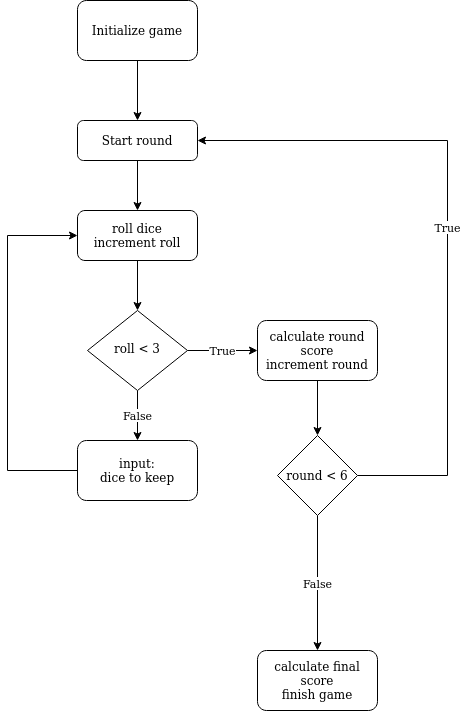
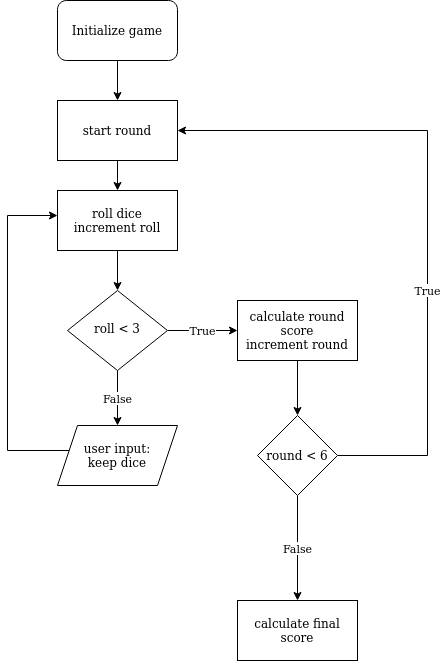
somewhat corrected notation of flowchart

diff --git a/doc/yatzy/pseudocode.md b/doc/yatzy/pseudocode.md
@@ -1,17 +1,18 @@
-INITIATE game
+START game
 
-IF times rolled < 3 THEN
+WHILE round < 6
+    WHILE times rolled < 3
+        except dice to keep
+        roll dicehand
+        increment times rolled
+    ENDWHILE
 
-except dice to keep
-roll dicehand
-increment times rolled
+    calculate round score
+    print round score
+    increase round
+ENDWHILE
 
-ELSE
-calculate round score
-print round score
-increase round
-
-IF round > 6 THEN
 calculate final score
 print final score
-prepare reset of game
+
+FINISH game
